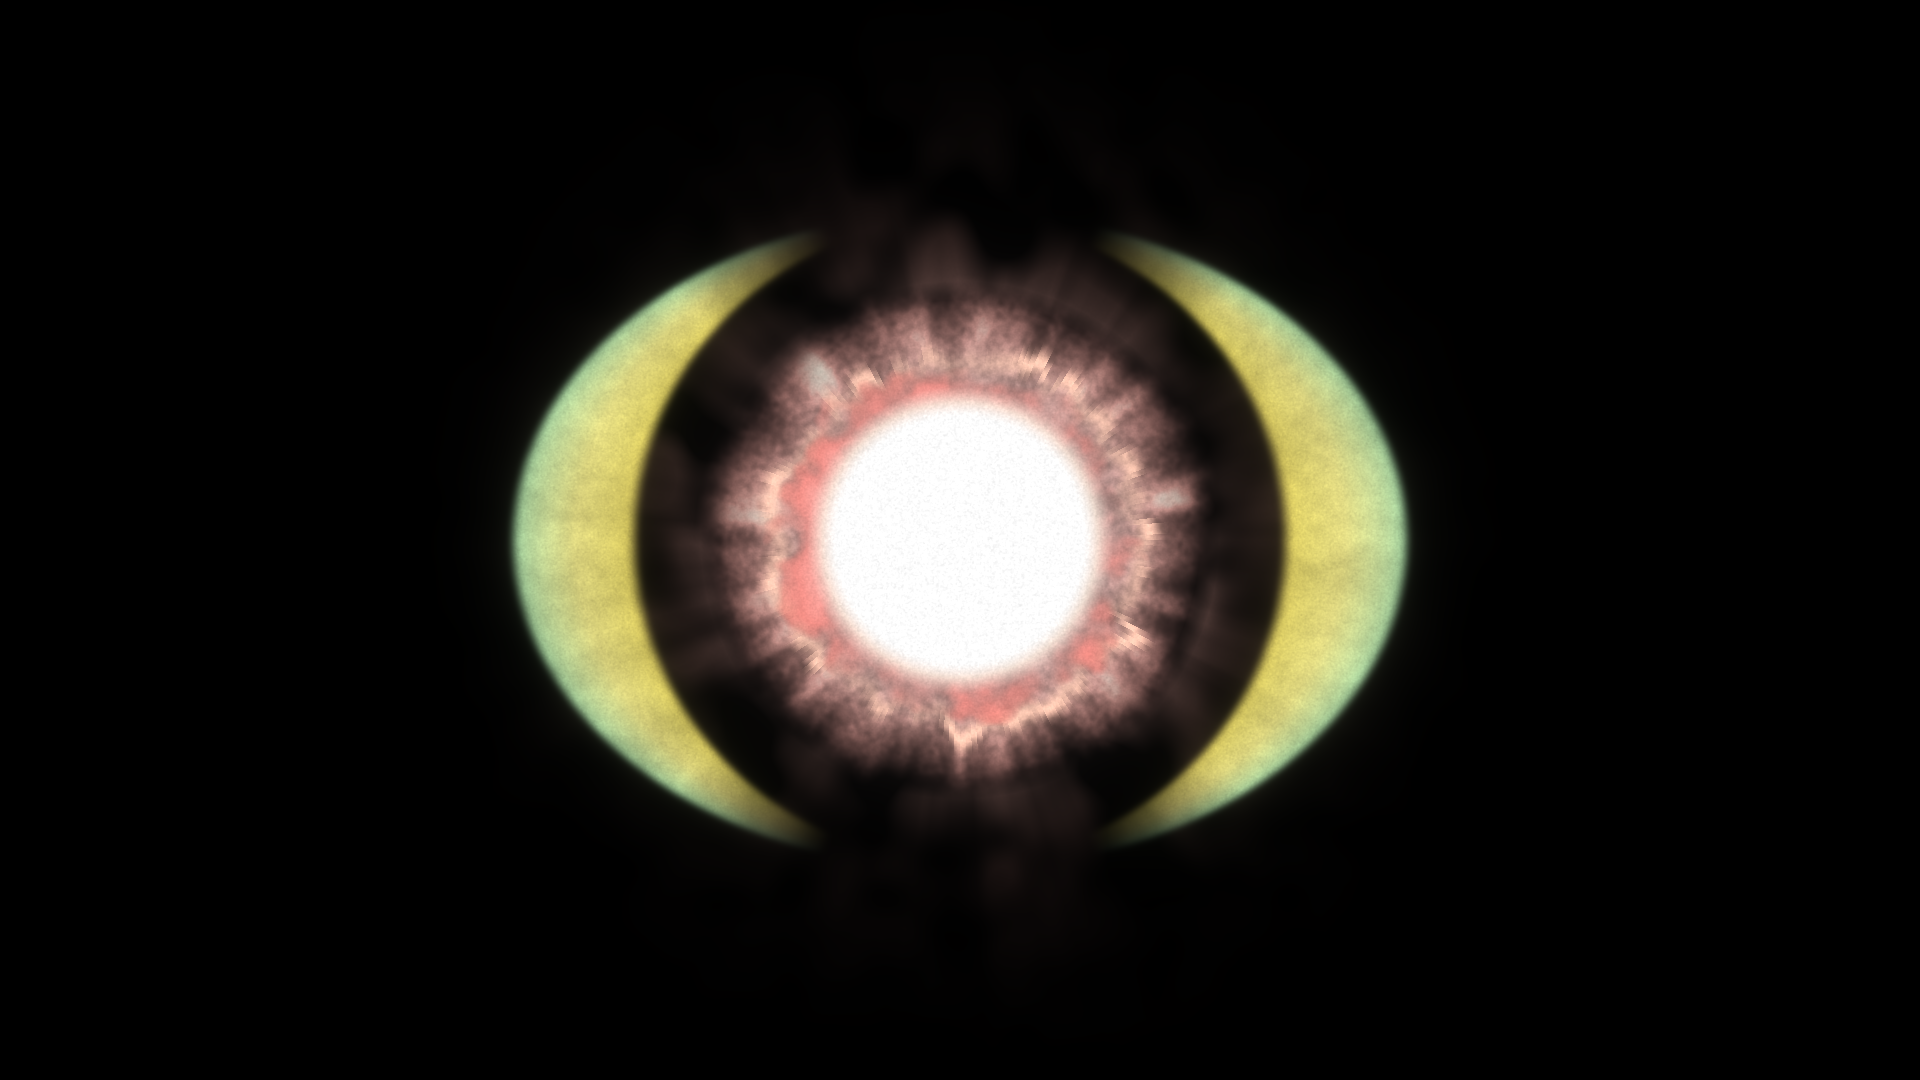
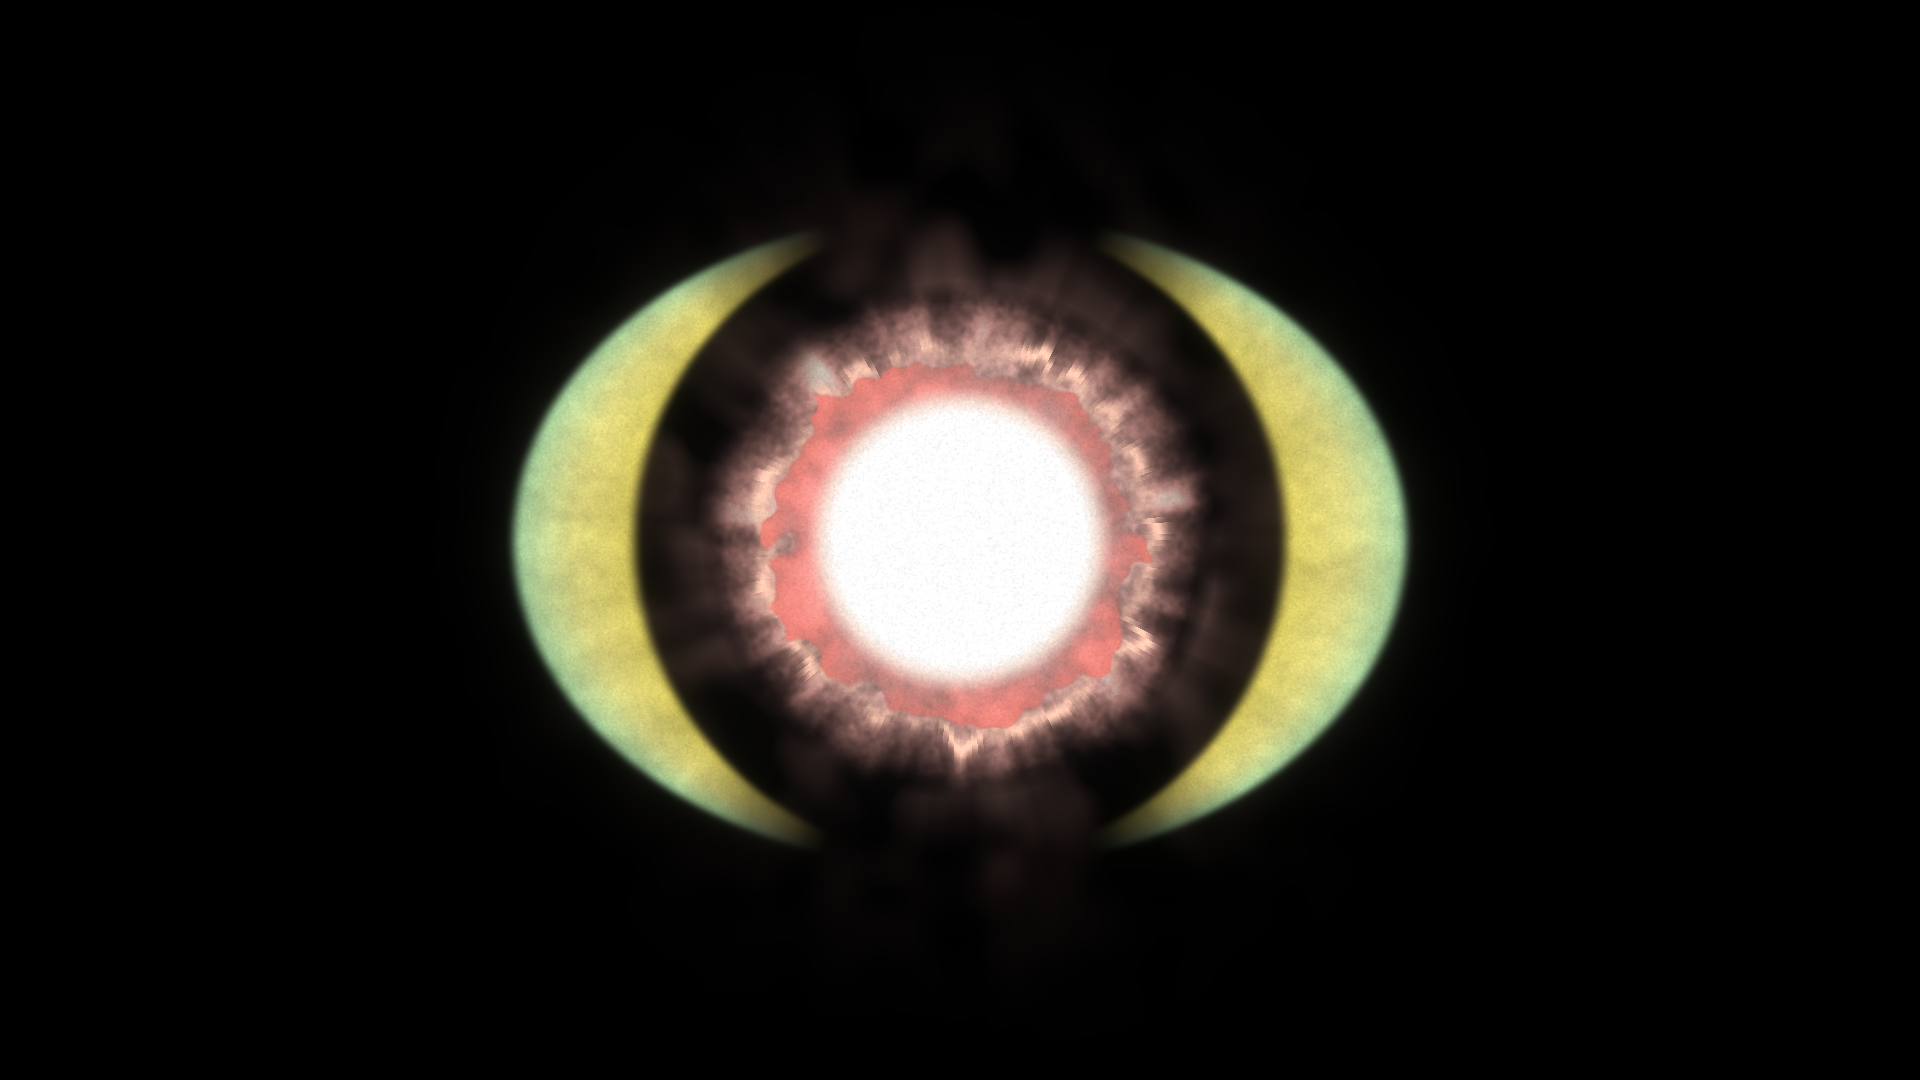
Efekt 10 küre: ateş bulutu büyüdü, dış kenarı net
Claude-Session: https://claude.ai/code/session_01E9c1WiJsMc9gXSJZ9D4z6g

Changed region(s): [[0.4375, 0.3056, 0.625, 0.7028], [0.375, 0.3667, 0.4375, 0.5806], [0.4062, 0.5806, 0.4375, 0.6417]]

diff --git a/arayuz/araclar/efekt10/kure.py b/arayuz/araclar/efekt10/kure.py
@@ -53,13 +53,13 @@ uzerine(np.clip(col,0,1),al)
 rg3=np.random.default_rng(31); z3=ndimage.gaussian_filter1d(rg3.standard_normal(220).astype(np.float32),1.2,mode="wrap")
 i3=(th*220).astype(int)%220; tit=z3[i3]/ (z3.std()+1e-6)
 Ry=R-4*tit-3*Pn
-yog_al=np.exp(-((Ry-114)/6.5)**2)*np.clip(0.75+0.25*tit+0.08*tane,0,1)*0.9
+yog_al=np.exp(-((Ry-120)/6.0)**2)*np.clip(0.75+0.25*tit+0.08*tane,0,1)*0.9
 uzerine(np.broadcast_to(rk("#F0B49A"),C.shape)*np.clip(1+0.12*tit,0.85,1.2)[...,None],yog_al)
 # 2) atesbulutu: titanyumun hemen disinda bir tik daha kirmizi, dalgali bulut (r~84-108)
 bul=ndimage.gaussian_filter(fbm(41,[6,12,24],[0.6,1.0,0.8]),1.5)
 Rb=R-6*bul-4*Pn
-ab_col,ab_al=interp(Rb,[(0,"#D4625A",0.0),(80,"#D4625A",0.85),(92,"#C85850",0.85),(102,"#B85048",0.6),(110,"#A84A44",0.0)])
-ab_al=ab_al*np.clip(0.7+0.3*bul+0.06*tane,0,1)
+ab_col,ab_al=interp(Rb,[(0,"#D4625A",0.0),(78,"#D4625A",0.88),(96,"#C85850",0.88),(110,"#BC5249",0.86),(113,"#A84A44",0.0)])   # bir tik buyuk, dis kenari net
+ab_al=ab_al*np.clip(0.8+0.2*bul+0.05*tane,0,1)
 uzerine(np.clip(ab_col*np.clip(1+0.15*bul,0.8,1.25)[...,None],0,1),ab_al)
 # titanyum beyaz: buyuk, opak; kenari seftaliye yumusak gecer
 col,al=interp(R,[(0,"#FFFFFF",1.0),(76,"#FEFEFE",1.0),(86,"#F8DBC3",0.8),(96,"#EBB8A8",0.0)])
